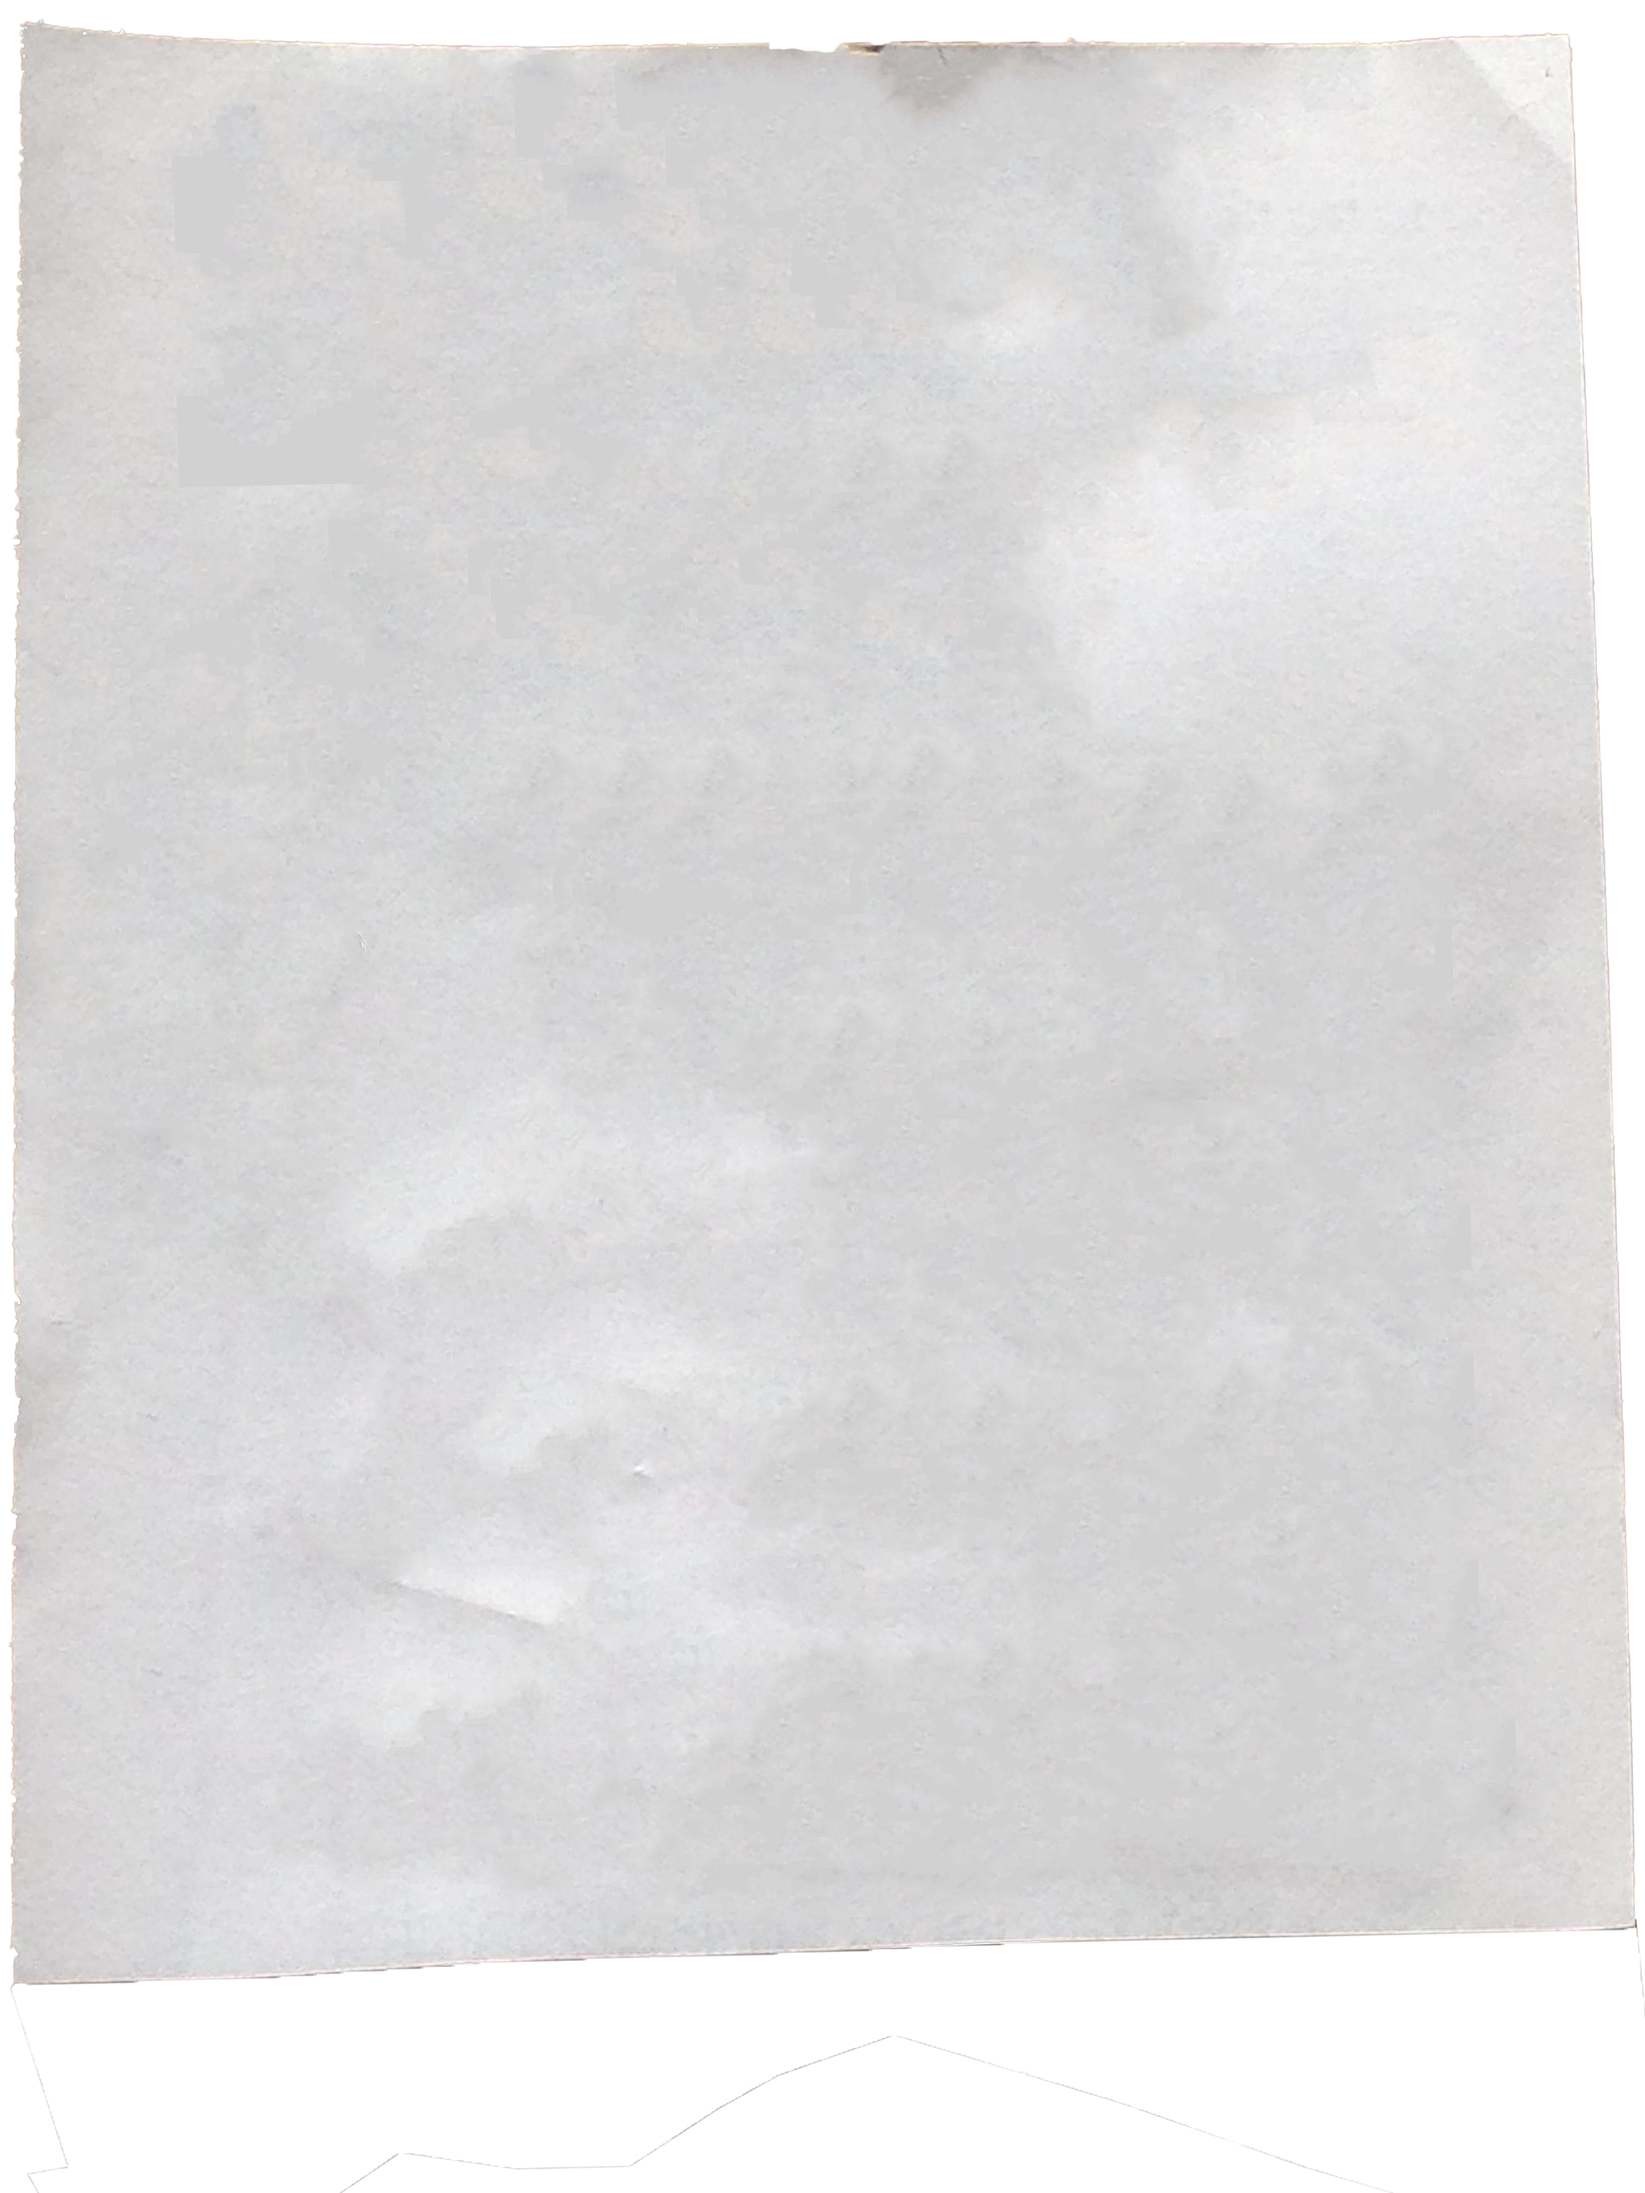
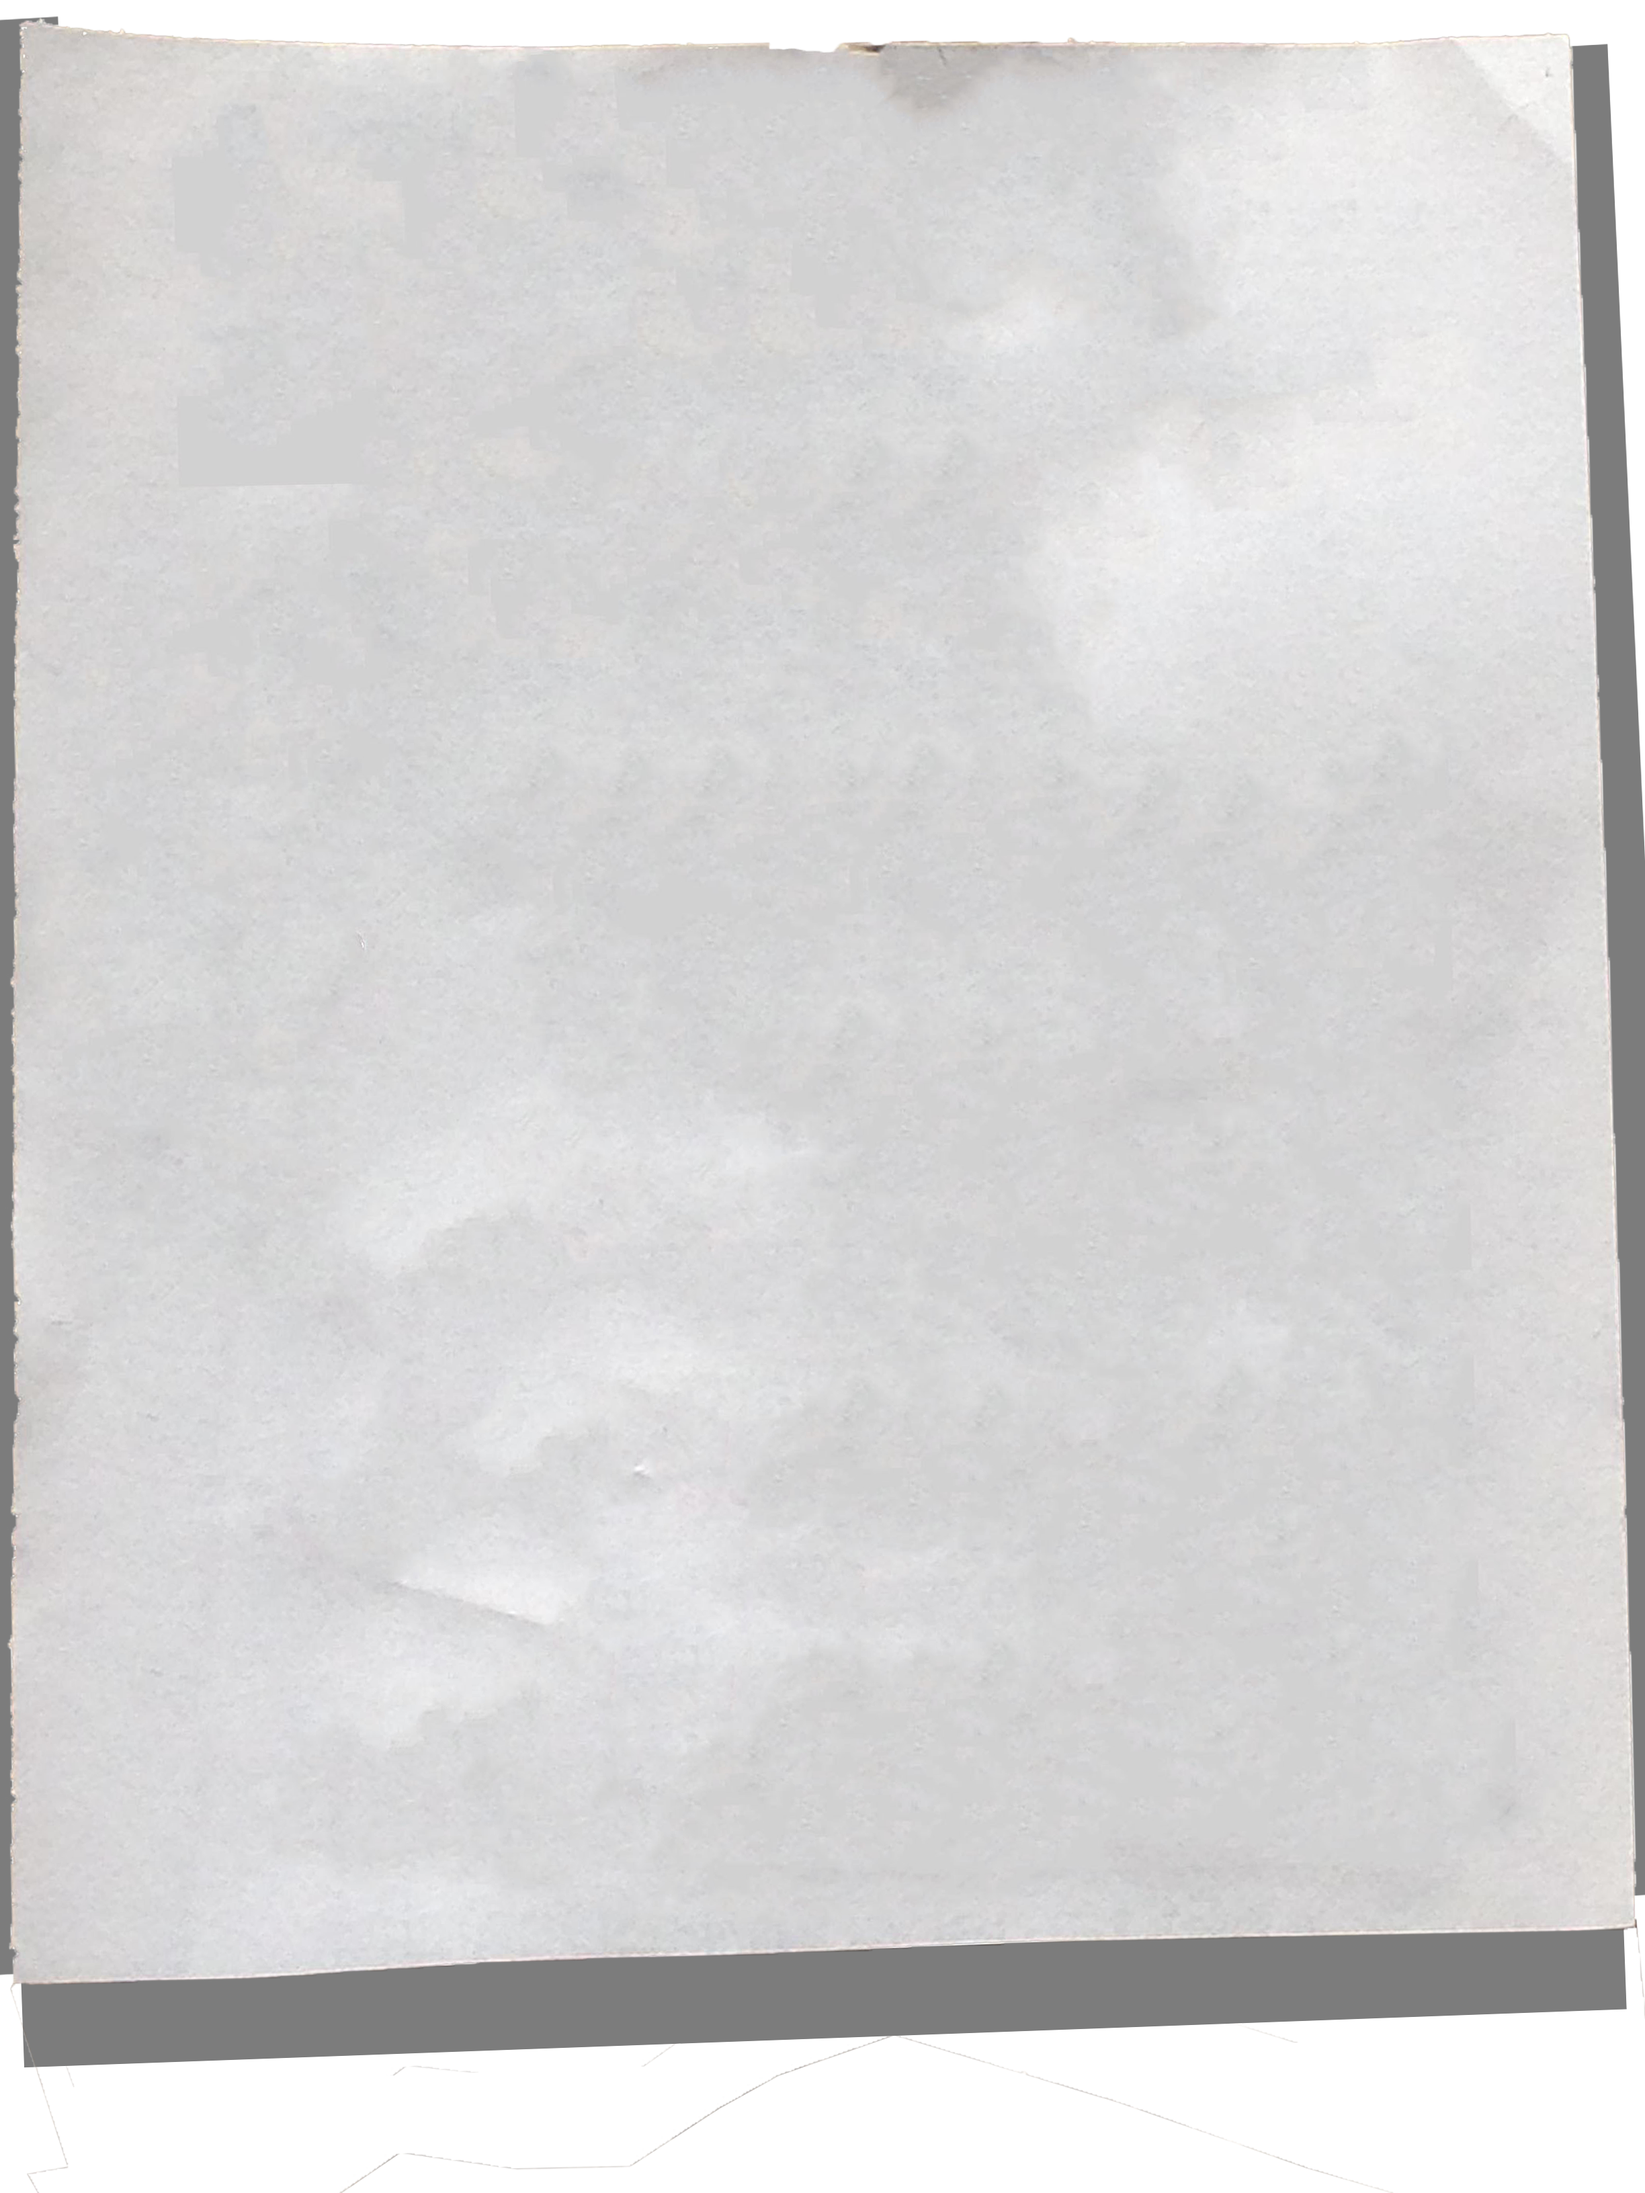
problems solve

Changed region(s): [[0.0, 0.0, 0.9935, 0.9688], [0.9314, 0.0, 1.0, 0.875]]

diff --git a/index.html b/index.html
@@ -24,10 +24,11 @@
 
         .recept {
             background: url('image/receptBG.png');
-            box-shadow: 2px 17px 89px 0px black;
+            /* box-shadow: 0px 20px 50px 0px black; */
+            /* box-shadow: inset rgb(0, 0, 0) 0px 0px 60px -12px; */
             background-position: center center;
             background-repeat: no-repeat;
-            /* background-size: cover; */
+            background-size: cover;
 
         }
     </style>
